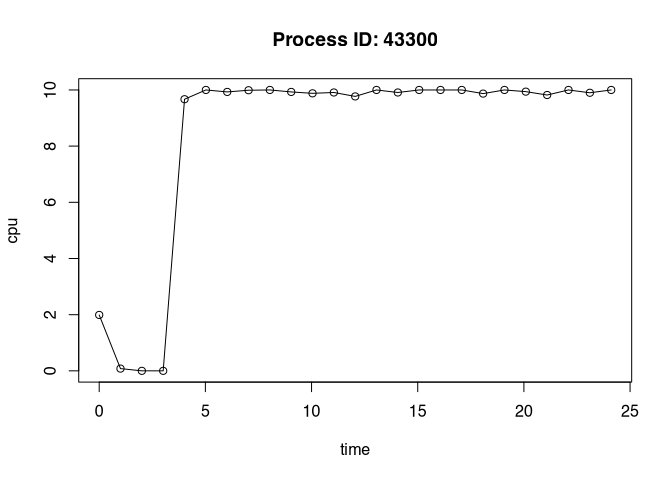
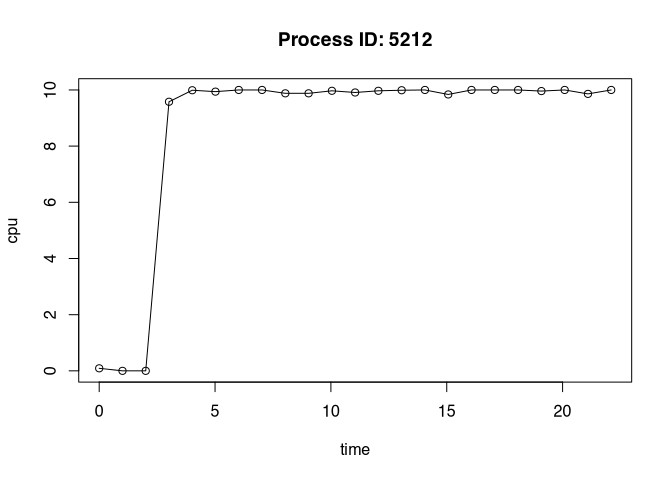
Fix #1 and respond to CRAN comments

diff --git a/src/metrics_mac.c b/src/metrics_mac.c
@@ -1,7 +1,7 @@
 /*
  * Based on ps__get_status() from the {ps} R package:
  * https://github.com/r-lib/ps/blob/dccc347d11554c55724e6f540d5001ded7bf80c7/src/api-macos.c#L78-L152
- * See the NOTICE file at the top level of this package for license and
+ * See the LICENSE.note file at the top level of this package for license and
  * copyright information relating to this code.
  * The authors of {ps} credit these sources:
  * http://stackoverflow.com/questions/6788274/ios-mac-cpu-usage-for-thread and

diff --git a/src/metrics_linux.c b/src/metrics_linux.c
@@ -1,7 +1,7 @@
 /*
  * Based on the {ps} R package:
  * https://github.com/r-lib/ps/blob/main/src/api-linux.c
- * See the NOTICE file at the top level of this package for license and
+ * See the LICENSE.note file at the top level of this package for license and
  * copyright information relating to this code.
  */
 

diff --git a/src/metrics_windows.c b/src/metrics_windows.c
@@ -1,7 +1,7 @@
 /*
  * Based on the {ps} R package:
  * https://github.com/r-lib/ps/blob/main/src/api-linux.c
- * See the NOTICE file at the top level of this package for license and
+ * See the LICENSE.note file at the top level of this package for license and
  * copyright information relating to this code.
  */
 

diff --git a/src/version.h b/src/version.h
@@ -1,1 +1,1 @@
-#define VERSION "0.0.4.9000"
+#define VERSION "0.0.5"

diff --git a/README.md b/README.md
@@ -104,37 +104,35 @@ When we read in the log file, we see messages from both R and the
 writeLines(readLines(log_file))
 #> [1] "Setting up the log."
 #> [1] "Warming up."
-#> __AUTOMETRIC__|0.0.1|43300|my_worker|0|1727985463.531|19.900|1.990|78168064|420423090176|__AUTOMETRIC__
-#> __AUTOMETRIC__|0.0.1|43300|my_worker|0|1727985464.533|0.800|0.080|78184448|420423090176|__AUTOMETRIC__
-#> __AUTOMETRIC__|0.0.1|43300|my_worker|0|1727985465.539|0.000|0.000|78217216|420431478784|__AUTOMETRIC__
+#> __AUTOMETRIC__|0.0.4.9000|5212|my_worker|0|1728302986.989|0.900|0.090|77938688|420690477056|__AUTOMETRIC__
+#> __AUTOMETRIC__|0.0.4.9000|5212|my_worker|0|1728302987.994|0.000|0.000|78004224|420699914240|__AUTOMETRIC__
 #> [1] "Defining a function that guzzles CPU power."
 #> [1] "Allocating a large object."
-#> __AUTOMETRIC__|0.0.1|43300|my_worker|0|1727985466.544|0.000|0.000|78233600|420431478784|__AUTOMETRIC__
-#> __AUTOMETRIC__|0.0.1|43300|my_worker|0|1727985467.550|96.700|9.670|379420672|421231509504|__AUTOMETRIC__
-#> __AUTOMETRIC__|0.0.1|43300|my_worker|0|1727985468.555|100.000|10.000|697237504|421239898112|__AUTOMETRIC__
+#> __AUTOMETRIC__|0.0.4.9000|5212|my_worker|0|1728302988.997|0.000|0.000|78053376|420708302848|__AUTOMETRIC__
+#> __AUTOMETRIC__|0.0.4.9000|5212|my_worker|0|1728302990.002|95.800|9.580|385613824|421508333568|__AUTOMETRIC__
+#> __AUTOMETRIC__|0.0.4.9000|5212|my_worker|0|1728302991.005|99.900|9.990|705708032|421508333568|__AUTOMETRIC__
 #> [1] "Guzzling CPU power."
-#> __AUTOMETRIC__|0.0.1|43300|my_worker|0|1727985469.560|99.300|9.930|895926272|421382504448|__AUTOMETRIC__
-#> __AUTOMETRIC__|0.0.1|43300|my_worker|0|1727985470.565|99.900|9.990|909918208|421390893056|__AUTOMETRIC__
-#> __AUTOMETRIC__|0.0.1|43300|my_worker|0|1727985471.568|100.000|10.000|914718720|421390893056|__AUTOMETRIC__
-#> __AUTOMETRIC__|0.0.1|43300|my_worker|0|1727985472.573|99.300|9.930|924172288|421390893056|__AUTOMETRIC__
-#> __AUTOMETRIC__|0.0.1|43300|my_worker|0|1727985473.577|98.800|9.880|926072832|421390893056|__AUTOMETRIC__
-#> __AUTOMETRIC__|0.0.1|43300|my_worker|0|1727985474.582|99.100|9.910|926646272|421390893056|__AUTOMETRIC__
-#> __AUTOMETRIC__|0.0.1|43300|my_worker|0|1727985475.587|97.700|9.770|930643968|421399281664|__AUTOMETRIC__
+#> __AUTOMETRIC__|0.0.4.9000|5212|my_worker|0|1728302992.007|99.400|9.940|905494528|421533499392|__AUTOMETRIC__
+#> __AUTOMETRIC__|0.0.4.9000|5212|my_worker|0|1728302993.012|100.000|10.000|915177472|421533499392|__AUTOMETRIC__
+#> __AUTOMETRIC__|0.0.4.9000|5212|my_worker|0|1728302994.017|100.000|10.000|920846336|421533499392|__AUTOMETRIC__
+#> __AUTOMETRIC__|0.0.4.9000|5212|my_worker|0|1728302995.022|98.800|9.880|920846336|421533499392|__AUTOMETRIC__
+#> __AUTOMETRIC__|0.0.4.9000|5212|my_worker|0|1728302996.027|98.800|9.880|921862144|421533499392|__AUTOMETRIC__
+#> __AUTOMETRIC__|0.0.4.9000|5212|my_worker|0|1728302997.033|99.700|9.970|925302784|421533499392|__AUTOMETRIC__
+#> __AUTOMETRIC__|0.0.4.9000|5212|my_worker|0|1728302998.035|99.100|9.910|926695424|421541888000|__AUTOMETRIC__
 #> [1] "Allocating another large object."
-#> __AUTOMETRIC__|0.0.1|43300|my_worker|0|1727985476.589|100.000|10.000|1105592320|422199296000|__AUTOMETRIC__
-#> __AUTOMETRIC__|0.0.1|43300|my_worker|0|1727985477.594|99.100|9.910|1426571264|422199296000|__AUTOMETRIC__
+#> __AUTOMETRIC__|0.0.4.9000|5212|my_worker|0|1728302999.038|99.700|9.970|1150222336|422341902336|__AUTOMETRIC__
+#> __AUTOMETRIC__|0.0.4.9000|5212|my_worker|0|1728303000.043|99.900|9.990|1470906368|422341902336|__AUTOMETRIC__
 #> [1] "Guzzling more CPU."
-#> __AUTOMETRIC__|0.0.1|43300|my_worker|0|1727985478.599|100.000|10.000|1735507968|422199296000|__AUTOMETRIC__
-#> __AUTOMETRIC__|0.0.1|43300|my_worker|0|1727985479.604|100.000|10.000|1737244672|422199296000|__AUTOMETRIC__
-#> __AUTOMETRIC__|0.0.1|43300|my_worker|0|1727985480.605|100.000|10.000|1737244672|422199296000|__AUTOMETRIC__
-#> __AUTOMETRIC__|0.0.1|43300|my_worker|0|1727985481.611|98.700|9.870|1737244672|422199296000|__AUTOMETRIC__
-#> __AUTOMETRIC__|0.0.1|43300|my_worker|0|1727985482.616|100.000|10.000|1737244672|422199296000|__AUTOMETRIC__
-#> __AUTOMETRIC__|0.0.1|43300|my_worker|0|1727985483.621|99.400|9.940|1737244672|422199296000|__AUTOMETRIC__
-#> __AUTOMETRIC__|0.0.1|43300|my_worker|0|1727985484.626|98.200|9.820|1737244672|422199296000|__AUTOMETRIC__
+#> __AUTOMETRIC__|0.0.4.9000|5212|my_worker|0|1728303001.048|100.000|10.000|1741717504|422341902336|__AUTOMETRIC__
+#> __AUTOMETRIC__|0.0.4.9000|5212|my_worker|0|1728303002.053|98.400|9.840|1741717504|422341902336|__AUTOMETRIC__
+#> __AUTOMETRIC__|0.0.4.9000|5212|my_worker|0|1728303003.058|100.000|10.000|1746960384|422341902336|__AUTOMETRIC__
+#> __AUTOMETRIC__|0.0.4.9000|5212|my_worker|0|1728303004.063|100.000|10.000|1746993152|422341902336|__AUTOMETRIC__
+#> __AUTOMETRIC__|0.0.4.9000|5212|my_worker|0|1728303005.068|100.000|10.000|1746993152|422341902336|__AUTOMETRIC__
+#> __AUTOMETRIC__|0.0.4.9000|5212|my_worker|0|1728303006.074|99.600|9.960|1746993152|422341902336|__AUTOMETRIC__
+#> __AUTOMETRIC__|0.0.4.9000|5212|my_worker|0|1728303007.079|100.000|10.000|1746993152|422341902336|__AUTOMETRIC__
 #> [1] "Allocating a third large object."
-#> __AUTOMETRIC__|0.0.1|43300|my_worker|0|1727985485.631|100.000|10.000|1854226432|422999310336|__AUTOMETRIC__
-#> __AUTOMETRIC__|0.0.1|43300|my_worker|0|1727985486.637|99.000|9.900|2173042688|422999310336|__AUTOMETRIC__
-#> __AUTOMETRIC__|0.0.1|43300|my_worker|0|1727985487.642|100.000|10.000|2493399040|422999310336|__AUTOMETRIC__
+#> __AUTOMETRIC__|0.0.4.9000|5212|my_worker|0|1728303008.084|98.600|9.860|1929740288|423141916672|__AUTOMETRIC__
+#> __AUTOMETRIC__|0.0.4.9000|5212|my_worker|0|1728303009.087|100.000|10.000|1828651008|423141916672|__AUTOMETRIC__
 #> [1] "Done."
 ```
 
@@ -147,32 +145,30 @@ library(autometric)
 log_data <- log_read(log_file)
 
 log_data
-#>    version   pid      name status   time  core   cpu   resident  virtual
-#> 1    0.0.1 43300 my_worker      0  0.000  19.9  1.99   78.16806 420423.1
-#> 2    0.0.1 43300 my_worker      0  1.002   0.8  0.08   78.18445 420423.1
-#> 3    0.0.1 43300 my_worker      0  2.008   0.0  0.00   78.21722 420431.5
-#> 4    0.0.1 43300 my_worker      0  3.013   0.0  0.00   78.23360 420431.5
-#> 5    0.0.1 43300 my_worker      0  4.019  96.7  9.67  379.42067 421231.5
-#> 6    0.0.1 43300 my_worker      0  5.024 100.0 10.00  697.23750 421239.9
-#> 7    0.0.1 43300 my_worker      0  6.029  99.3  9.93  895.92627 421382.5
-#> 8    0.0.1 43300 my_worker      0  7.034  99.9  9.99  909.91821 421390.9
-#> 9    0.0.1 43300 my_worker      0  8.037 100.0 10.00  914.71872 421390.9
-#> 10   0.0.1 43300 my_worker      0  9.042  99.3  9.93  924.17229 421390.9
-#> 11   0.0.1 43300 my_worker      0 10.046  98.8  9.88  926.07283 421390.9
-#> 12   0.0.1 43300 my_worker      0 11.051  99.1  9.91  926.64627 421390.9
-#> 13   0.0.1 43300 my_worker      0 12.056  97.7  9.77  930.64397 421399.3
-#> 14   0.0.1 43300 my_worker      0 13.058 100.0 10.00 1105.59232 422199.3
-#> 15   0.0.1 43300 my_worker      0 14.063  99.1  9.91 1426.57126 422199.3
-#> 16   0.0.1 43300 my_worker      0 15.068 100.0 10.00 1735.50797 422199.3
-#> 17   0.0.1 43300 my_worker      0 16.073 100.0 10.00 1737.24467 422199.3
-#> 18   0.0.1 43300 my_worker      0 17.074 100.0 10.00 1737.24467 422199.3
-#> 19   0.0.1 43300 my_worker      0 18.080  98.7  9.87 1737.24467 422199.3
-#> 20   0.0.1 43300 my_worker      0 19.085 100.0 10.00 1737.24467 422199.3
-#> 21   0.0.1 43300 my_worker      0 20.090  99.4  9.94 1737.24467 422199.3
-#> 22   0.0.1 43300 my_worker      0 21.095  98.2  9.82 1737.24467 422199.3
-#> 23   0.0.1 43300 my_worker      0 22.100 100.0 10.00 1854.22643 422999.3
-#> 24   0.0.1 43300 my_worker      0 23.106  99.0  9.90 2173.04269 422999.3
-#> 25   0.0.1 43300 my_worker      0 24.111 100.0 10.00 2493.39904 422999.3
+#>       version  pid      name status   time  core   cpu   resident  virtual
+#> 1  0.0.4.9000 5212 my_worker      0  0.000   0.9  0.09   77.93869 420690.5
+#> 2  0.0.4.9000 5212 my_worker      0  1.005   0.0  0.00   78.00422 420699.9
+#> 3  0.0.4.9000 5212 my_worker      0  2.008   0.0  0.00   78.05338 420708.3
+#> 4  0.0.4.9000 5212 my_worker      0  3.013  95.8  9.58  385.61382 421508.3
+#> 5  0.0.4.9000 5212 my_worker      0  4.016  99.9  9.99  705.70803 421508.3
+#> 6  0.0.4.9000 5212 my_worker      0  5.018  99.4  9.94  905.49453 421533.5
+#> 7  0.0.4.9000 5212 my_worker      0  6.023 100.0 10.00  915.17747 421533.5
+#> 8  0.0.4.9000 5212 my_worker      0  7.028 100.0 10.00  920.84634 421533.5
+#> 9  0.0.4.9000 5212 my_worker      0  8.033  98.8  9.88  920.84634 421533.5
+#> 10 0.0.4.9000 5212 my_worker      0  9.038  98.8  9.88  921.86214 421533.5
+#> 11 0.0.4.9000 5212 my_worker      0 10.044  99.7  9.97  925.30278 421533.5
+#> 12 0.0.4.9000 5212 my_worker      0 11.046  99.1  9.91  926.69542 421541.9
+#> 13 0.0.4.9000 5212 my_worker      0 12.049  99.7  9.97 1150.22234 422341.9
+#> 14 0.0.4.9000 5212 my_worker      0 13.054  99.9  9.99 1470.90637 422341.9
+#> 15 0.0.4.9000 5212 my_worker      0 14.059 100.0 10.00 1741.71750 422341.9
+#> 16 0.0.4.9000 5212 my_worker      0 15.064  98.4  9.84 1741.71750 422341.9
+#> 17 0.0.4.9000 5212 my_worker      0 16.069 100.0 10.00 1746.96038 422341.9
+#> 18 0.0.4.9000 5212 my_worker      0 17.074 100.0 10.00 1746.99315 422341.9
+#> 19 0.0.4.9000 5212 my_worker      0 18.079 100.0 10.00 1746.99315 422341.9
+#> 20 0.0.4.9000 5212 my_worker      0 19.085  99.6  9.96 1746.99315 422341.9
+#> 21 0.0.4.9000 5212 my_worker      0 20.090 100.0 10.00 1746.99315 422341.9
+#> 22 0.0.4.9000 5212 my_worker      0 21.095  98.6  9.86 1929.74029 423141.9
+#> 23 0.0.4.9000 5212 my_worker      0 22.098 100.0 10.00 1828.65101 423141.9
 ```
 
 `autometric` also supports simple visualizations plot performance
@@ -200,8 +196,9 @@ log_plot(log_data, metric = "resident")
 Giampaolo Rodola, Gábor Csárdi, and Posit Software, PBC. The source code
 of [`ps`](https://ps.r-lib.org/) was especially helpful for identifying
 appropriate system calls to retrieve resource usage statistics.
-Attribution is given in the NOTICE file and in the comments of the C
-files in `src/`. Please visit
+Attribution is given in the `Authors@R` field of the `DESCRIPTION` file,
+the `LICENSE.note` file at the top level of the package, and in the
+comments of the C files in `src/`. Please visit
 <https://github.com/r-lib/ps/blob/main/LICENSE.md> to view the license
 of [`ps`](https://ps.r-lib.org/). [`ps`](https://ps.r-lib.org/) in turn
 is based on [`psutil`](https://github.com/giampaolo/psutil), whose

diff --git a/NEWS.md b/NEWS.md
@@ -1,6 +1,9 @@
-# autometric 0.0.4.9000 (development)
+# autometric 0.0.5
 
-
+* Document the return value of `log_print()`.
+* Make copyright attribution more obvious in the built package:
+    1. Move `NOTICE` to `LICENSE.note` so comments on the license and copyright are included in the built package.
+    2. Attribute the `ps` and `psutil` copyright holders in the `Authors@R` field of the `DESCRIPTION` file.
 
 # autometric 0.0.4
 
